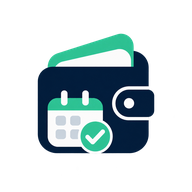
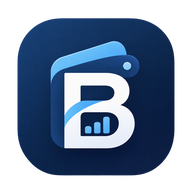
Add files via upload
Update Web Apps Budget-in V4.1

diff --git a/app.js b/app.js
@@ -11,7 +11,8 @@ function normalizeMonth(m){
  for(const rec of Object.values(m.weeks)){if(rec&&!rec.byBudget){rec.byBudget={};let j=m.budgets.find(b=>/jajan/i.test(b.name)),f=m.budgets.find(b=>/bensin/i.test(b.name));if(j&&rec.together!=null)rec.byBudget[j.id]=+rec.together||0;if(f&&rec.fuel!=null)rec.byBudget[f.id]=+rec.fuel||0;let c=m.budgets.find(b=>/kopi|air pt/i.test(b.name));if(c&&rec.work!=null){rec.byBudget[c.id]=+rec.work||0;if(+rec.work>0){c.weeklyEnabled=true;if(!c.weeklyAmount)c.weeklyAmount=50000;}}}}
  m.balances=m.balances||[{name:'Rekening',amount:0},{name:'Tunai',amount:0},{name:'Di pasangan',amount:0}];return m;
 }
-function loadState(){try{let s=JSON.parse(localStorage.getItem(STORE));if(s?.months){Object.values(s.months).forEach(normalizeMonth);return s;}let old=JSON.parse(localStorage.getItem(OLD));if(old?.months){let months={};for(let [k,v] of Object.entries(old.months))months[k]=normalizeMonth({income:v.income||7500000,budgets:(v.budgets||[]).map(b=>({...b,id:uid()})),weeks:v.weeks||{},balances:v.balances||[],submitted:!!v.submitted});return {activeMonth:old.activeMonth||'2026-11',months};}}catch(e){}return {activeMonth:'2026-11',months:{'2026-11':freshMonth()}}}
+function defaultPlanningMonthKey(){const now=new Date(),d=new Date(now.getFullYear(),now.getMonth()+1,1);return `${d.getFullYear()}-${String(d.getMonth()+1).padStart(2,'0')}`;}
+function loadState(){try{let s=JSON.parse(localStorage.getItem(STORE));if(s?.months){Object.values(s.months).forEach(normalizeMonth);if(!s.activeMonth||!s.months[s.activeMonth])s.activeMonth=Object.keys(s.months).sort().at(-1)||defaultPlanningMonthKey();return s;}let old=JSON.parse(localStorage.getItem(OLD));if(old?.months){let months={};for(let [k,v] of Object.entries(old.months))months[k]=normalizeMonth({income:v.income||7500000,budgets:(v.budgets||[]).map(b=>({...b,id:uid()})),weeks:v.weeks||{},balances:v.balances||[],submitted:!!v.submitted});return {activeMonth:old.activeMonth||Object.keys(months).sort().at(-1)||defaultPlanningMonthKey(),months};}}catch(e){}const firstMonth=defaultPlanningMonthKey();return {activeMonth:firstMonth,months:{[firstMonth]:freshMonth()}}}
 let state=loadState(),month=state.activeMonth||'2026-11',week=1;
 const $=id=>document.getElementById(id);
 function previousMonthKey(k){let [y,n]=k.split('-').map(Number),d=new Date(y,n-2,1);return `${d.getFullYear()}-${String(d.getMonth()+1).padStart(2,'0')}`;}
@@ -44,7 +45,7 @@ function trackedDisbursedActual(m){
  return m.budgets.filter(b=>b.paid&&b.weeklyEnabled).reduce((sum,b)=>sum+Object.values(m.weeks||{}).reduce((n,rec)=>n+weeklyUsed(b,rec),0),0);
 }
 function trackedRemaining(m){return trackedDisbursedActual(m)-actual(m);}
-function validMonthKey(k){return typeof k==='string'&&/^\\d{4}-(0[1-9]|1[0-2])$/.test(k);}
+function validMonthKey(k){return typeof k==='string'&&/^\d{4}-(0[1-9]|1[0-2])$/.test(k);}
 
 function monthName(k){let [y,n]=k.split('-').map(Number);return new Date(y,n-1,1).toLocaleDateString('id-ID',{month:'long',year:'numeric'});}
 function monthWeekRanges(key){
@@ -65,7 +66,7 @@ function escapeHtml(s){return String(s??'').replace(/[&<>"']/g,c=>({'&':'&amp;',
 function iconFor(n){let s=n.toLowerCase();if(s.includes('infak'))return 'volunteer_activism';if(s.includes('hp')||s.includes('cicilan'))return 'smartphone';if(s.includes('umi')||s.includes('mifta')||s.includes('aulia')||s.includes('keluarga'))return 'family_restroom';if(s.includes('pasangan')||s.includes('jajan'))return 'favorite';if(s.includes('bensin'))return 'local_gas_station';if(s.includes('cartridge')||s.includes('liquid'))return 'water_drop';if(s.includes('kuota'))return 'wifi';if(s.includes('kopi')||s.includes('air'))return 'coffee';if(s.includes('rumah'))return 'home';return 'category';}
 function render(){
  const m=current(),alloc=totalBudget(m),out=actual(m);
- $('monthTitle').textContent=monthName(month);$('monthStatus').textContent=m.status==='submitted'?'✓ Anggaran tersimpan':'● Draft anggaran';$('monthStatus').className='month-status '+(m.status==='submitted'?'is-submitted':'is-draft');$('submitBudget').textContent=m.status==='submitted'?'✓ Sudah disubmit':'Submit anggaran';$('submitBudget').disabled=m.status==='submitted';$('freeMoney').textContent=fmt(m.income-alloc);$('income').textContent=fmt(m.income);$('allocated').textContent=fmt(alloc);$('paidTotal').textContent=fmt(paidActual(m));$('budgetTotal').textContent=fmt(alloc);$('budgetCount').textContent=m.budgets.length+' pos';
+ $('monthTitle').textContent=monthName(month);$('draftNextMonth').textContent='＋ Buat '+monthName(nextMonthKey(month)).replace(/\s+\d{4}$/,'');$('draftNextMonth').title='Salin seluruh rencana '+monthName(month)+' ke '+monthName(nextMonthKey(month));$('monthStatus').textContent=m.status==='submitted'?'✓ Anggaran tersimpan':'● Draft anggaran';$('monthStatus').className='month-status '+(m.status==='submitted'?'is-submitted':'is-draft');$('submitBudget').textContent=m.status==='submitted'?'✓ Sudah disubmit':'Submit anggaran';$('submitBudget').disabled=m.status==='submitted';$('freeMoney').textContent=fmt(m.income-alloc);$('income').textContent=fmt(m.income);$('allocated').textContent=fmt(alloc);$('paidTotal').textContent=fmt(paidActual(m));$('budgetTotal').textContent=fmt(alloc);$('budgetCount').textContent=m.budgets.length+' pos';
  $('cashNeed').textContent=fmt(m.budgets.filter(b=>b.paymentMode==='cash'&&!b.paid).reduce((a,b)=>a+(+b.amount||0),0));$('budgetState').textContent=m.submitted?'✓ Anggaran tersimpan':'Belum disubmit';
  $('budgetList').innerHTML=m.budgets.map(b=>`<div class="budget-row"><div class="budget-name"><span class="budget-icon material-symbols-rounded">${iconFor(b.name)}</span><span><strong>${escapeHtml(b.name)}</strong><small>${b.paid?'Sudah terlaksana':'Belum terlaksana'} · ${b.paymentMode==='cash'?'Cash':'Cashless'}${b.weeklyEnabled?' · Mingguan '+fmt(b.weeklyAmount):''}</small></span></div><div class="budget-amount"><b>${fmt(b.amount)}</b><small><input class="paid-toggle" type="checkbox" aria-label="Tandai ${escapeHtml(b.name)} sudah terlaksana" ${b.paid?'checked':''} onchange="togglePaid('${b.id}',this.checked)"> ${b.paid?'Selesai':'Tandai selesai'}</small></div></div>`).join('');
  renderWeeklySections(m);
@@ -152,17 +153,21 @@ $('prevMonth').onclick=()=>shiftMonth(-1);$('nextMonth').onclick=()=>shiftMonth(
 function shiftMonth(n){let [y,m]=month.split('-').map(Number),d=new Date(y,m-1+n,1);month=`${d.getFullYear()}-${String(d.getMonth()+1).padStart(2,'0')}`;week=1;persist();}
 
 function createNextMonthDraft(){
- const source=current(),targetKey=nextMonthKey(month);
- if(state.months[targetKey]){alert('Draft '+monthName(targetKey)+' sudah tersedia. Buka melalui Riwayat agar data yang ada tidak tertimpa.');return;}
+ const sourceKey=month,source=current(),targetKey=nextMonthKey(sourceKey);
+ if(state.months[targetKey]){alert('Anggaran '+monthName(targetKey)+' sudah tersedia. Buka melalui Riwayat agar data yang sudah ada tidak tertimpa.');return;}
+ // Copy the planning inputs (including monthly income, category names/amounts,
+ // payment modes and monitoring preferences) into the following use-month.
  const copied=clone(source);
  copied.budgets=copied.budgets.map(b=>({...b,id:uid(),paid:false}));
- copied.weeks={};copied.balances=(source.balances||[]).map(b=>({...b,amount:0}));
- copied.submitted=false;copied.status='draft';copied.budgetPeriod=targetKey;
+ copied.weeks={};
+ copied.balances=(source.balances||[]).map(b=>({...b,amount:0}));
+ copied.submitted=false;copied.status='draft';copied.budgetPeriod=targetKey;copied.copiedFromMonth=sourceKey;
  delete copied.submittedAt;
  const count=monthWeekRanges(targetKey).length;
  copied.budgets.forEach(b=>{if(b.weeklyEnabled)b.weeklyAmount=Math.round((Number(b.amount)||0)/count);});
- copied.weekCount=count;state.months[targetKey]=copied;month=targetKey;week=1;persist();
- alert('Draft '+monthName(targetKey)+' berhasil dibuat. Kategori dan nominal disalin; transaksi, status pembayaran, dan saldo aktual direset.');
+ copied.weekCount=count;
+ state.months[targetKey]=copied;month=targetKey;week=1;persist();
+ alert('Anggaran '+monthName(targetKey)+' berhasil disiapkan dari '+monthName(sourceKey)+'. Pemasukan, nama pos, nominal, metode pembayaran, dan pengaturan monitoring disalin. Checklist, catatan mingguan, dan saldo aktual direset.');
 }
 $('newMonth').onclick=()=>{let v=prompt('Bulan baru (format YYYY-MM), contoh 2026-12');if(!v||!/^\d{4}-\d{2}$/.test(v))return;if(state.months[v]){alert('Bulan sudah ada. Buka melalui Riwayat.');return;}let prev=clone(current());prev.weeks={};prev.budgets.forEach(b=>{b.id=uid();b.paid=false;});prev.submitted=false;prev.status='draft';delete prev.submittedAt;prev.balances=[{name:'Rekening',amount:0},{name:'Tunai',amount:0},{name:'Di pasangan',amount:0}];state.months[v]=prev;month=v;week=1;persist();};
 $('draftNextMonth')?.addEventListener('click',createNextMonthDraft);

diff --git a/index.html b/index.html
@@ -3,7 +3,7 @@
 <head>
 <meta charset="utf-8">
 <meta name="viewport" content="width=device-width, initial-scale=1, viewport-fit=cover">
-<meta name="theme-color" content="#101f3d">
+<meta name="theme-color" content="#0b1e3b">
 <meta name="apple-mobile-web-app-status-bar-style" content="black-translucent">
 <meta name="apple-mobile-web-app-capable" content="yes">
 <meta name="apple-mobile-web-app-status-bar-style" content="black-translucent">
@@ -12,7 +12,7 @@
 <meta name="apple-mobile-web-app-title" content="Budget-in">
 <link rel="manifest" href="manifest.webmanifest">
 <link rel="apple-touch-icon" href="icon-192.png">
-<title>Budget-in V4.0 — Personal Finance</title>
+<title>Budget-in V4.1 — Personal Finance</title>
 <link rel="stylesheet" href="https://fonts.googleapis.com/css2?family=DM+Sans:wght@400;500;600;700;800&family=Manrope:wght@400;500;600;700;800&family=Material+Symbols+Rounded:opsz,wght,FILL,GRAD@20..48,400,0,0&display=swap">
 <link rel="stylesheet" href="styles.css">
 </head>
@@ -85,7 +85,7 @@
   </section>
 
   <section class="section-block" id="budgetSection">
-    <div class="section-heading"><div><span class="eyebrow">PLAN YOUR MONTH</span><h2>Anggaran bulanan</h2><p>Atur nominal, ceklis terlaksana, dan pilih Cash atau Cashless.</p></div><div class="heading-actions"><button class="small-action" id="editBudget">Edit anggaran <span>↗</span></button><button class="small-action draft-next-btn" id="draftNextMonth" type="button">＋ Draft bulan berikutnya</button><button class="primary-btn submit-budget-btn" id="submitBudget">Submit anggaran</button></div></div>
+    <div class="section-heading"><div><span class="eyebrow">PLAN YOUR MONTH</span><h2>Anggaran bulanan</h2><p>Rancang anggaran untuk bulan tujuan sebelum bulan dimulai. Salin rencana bulan sebelumnya agar lebih cepat.</p></div><div class="heading-actions"><button class="small-action" id="editBudget">Edit anggaran <span>↗</span></button><button class="small-action draft-next-btn" id="draftNextMonth" type="button">＋ Buat bulan berikutnya</button><button class="primary-btn submit-budget-btn" id="submitBudget">Submit anggaran</button></div></div>
     <div class="surface budget-surface"><div id="budgetList"></div><div class="budget-footer"><span>Total anggaran</span><b id="budgetTotal">Rp0</b></div><div class="cash-summary"><div><span>Uang tunai yang perlu disiapkan</span><b id="cashNeed">Rp0</b></div><small id="budgetState">Belum disubmit</small></div></div>
   </section>
 

diff --git a/styles.css b/styles.css
@@ -954,3 +954,10 @@ body{background:var(--bg);color:var(--ink);font-size:14px;line-height:1.55}
  .calendar-chips{grid-template-columns:repeat(2,minmax(0,1fr))}
  .weekly-calendar{padding:13px}
 }
+
+/* Budget-in V4.1 — blue brand accent */
+:root{--blue:#3b82f6;--chart-budget:#315b91}
+:root[data-theme="dark"]{--blue:#8dbbff;--chart-budget:#9db9e8}
+.draft-next-btn{background:#eaf2ff!important;color:#174b91!important;border:1px solid #d5e5ff!important}
+:root[data-theme="dark"] .draft-next-btn{background:#1b3556!important;color:#cfe2ff!important;border-color:#31527a!important}
+.brand b{color:var(--ink)}

diff --git a/sw.js b/sw.js
@@ -1,4 +1,4 @@
-const CACHE='budget-in-v4.0-cache';
+const CACHE='budget-in-v4.1-cache';
 const ASSETS=['./','./index.html','./styles.css','./app.js','./config.js','./manifest.webmanifest','./icon-192.png','./icon-512.png'];
 self.addEventListener('install',event=>{
   event.waitUntil(caches.open(CACHE).then(cache=>cache.addAll(ASSETS)).then(()=>self.skipWaiting()));

diff --git a/README.md b/README.md
@@ -1,33 +1,26 @@
-# Budget-in V4.0
+# Budget-in V4.1
 
-Budget-in is a personal-finance PWA hosted on GitHub Pages. Supabase provides authentication and per-user monthly budget storage.
+Personal-finance PWA using HTML, CSS, vanilla JavaScript, GitHub Pages, and the existing Supabase project.
+
+## Deploy
+1. Back up production data first.
+2. Keep `config.js` connected to the existing Supabase project; do not replace its URL or publishable key. Never add a service-role key.
+3. Upload the contents of this folder to the repository root.
+4. Commit and wait for GitHub Pages.
+5. Reopen the app and allow the V4.1 service worker cache to activate.
+6. Test authentication, sync, monthly history, weekly records, backup/restore, and multi-device refresh using a separate test account before production use.
+
+## Forward-month planning
+- A new installation opens on the next calendar month. Existing saved active-month selections remain unchanged.
+- The button `Buat [bulan berikutnya]` copies the selected month's income, budget category names and amounts, payment methods, and weekly-monitoring preferences into the next month.
+- The new month is a draft. Paid checkboxes, weekly actuals, and actual balance amounts reset.
+- Existing destination months are never overwritten.
+
+## Financial definitions
+- Allocated budget: planned category amounts.
+- Disbursed funds: categories marked as paid.
+- Actual spending: weekly recorded expenses only.
+- The monthly paid checkbox is not added to actual spending.
 
 ## Files
-- `index.html` — application shell
-- `styles.css` — responsive UI, themes, motion
-- `app.js` — financial logic, local-first rendering, Supabase sync
-- `config.js` — existing Supabase URL and publishable key
-- `sw.js` — service worker
-- `manifest.webmanifest` — PWA metadata
-- `schema.sql` — reference schema; do not rerun during normal deployment
-- `icon-192.png`, `icon-512.png` — app icons
-
-## V4.0 financial definitions
-- Allocated budget: planned category amounts.
-- Disbursed funds: sum of categories whose monthly checkbox is checked.
-- Actual spending: sum of weekly recorded expenses only.
-- Weekly monitoring remains selective. Historical entries remain counted when monitoring is disabled.
-
-## Deployment
-1. Download a fresh backup from the currently deployed application.
-2. Test this candidate build using a separate test account in the existing Supabase project.
-3. Confirm login, cloud sync, weekly records, monthly history, restore, and multi-device refresh.
-4. Replace repository root files with the contents of this folder.
-5. Commit and wait for GitHub Pages deployment.
-6. Reopen the PWA and verify the new service worker cache.
-7. Keep the previous V3.8 commit available for rollback.
-
-## Security
-- The frontend publishable key is intended for browser use when RLS is correctly configured.
-- Never commit a Supabase secret/service-role key.
-- Keep user-specific financial values out of public source defaults.
+`index.html`, `styles.css`, `app.js`, `config.js`, `sw.js`, `manifest.webmanifest`, `icon-192.png`, `icon-512.png`, and `schema.sql`.

diff --git a/CHANGELOG.md b/CHANGELOG.md
@@ -31,3 +31,11 @@ This is a candidate build. Test with a separate test user in the existing Supaba
 - Added `Draft bulan berikutnya` action. It copies budget categories and settings into the next month while resetting weekly records, paid flags, and actual balances.
 - Refined dark-mode palette, surface contrast, chart colors, grid lines, and calendar states.
 - Replaced application icons with a minimal wallet-calendar checkmark identity.
+
+
+## Budget-in V4.1 — Blue brand & forward-month planning
+- Replaced the previous app identity with the approved blue Budget-in monogram icon across PWA/app surfaces.
+- Updated PWA theme colors and service-worker cache namespace to V4.1.
+- New installations now open on the next calendar month, so the first plan is forward-looking. Existing saved active months are preserved.
+- The next-month action now names its target month and explicitly copies monthly income, category names and amounts, payment methods, and weekly-monitoring preferences.
+- The new target month starts as a draft; paid flags, weekly actual records, and actual balance amounts are reset. Existing target months are never overwritten.

diff --git a/QC_REPORT.md b/QC_REPORT.md
@@ -38,3 +38,11 @@ Candidate build only. Do not replace production until acceptance tests pass.
 - Draft-next-month action avoids overwriting an existing month and resets actual-use fields.
 - Dark-mode chart and surface tokens updated.
 - Browser-level UI interaction, Supabase write behavior, and multi-device acceptance tests remain pending.
+
+
+## V4.1 checks
+- Blue app icon generated from the user-approved Budget-in B monogram and resized to 192px and 512px.
+- PWA manifest and service-worker cache namespace updated.
+- New-install default planning month is computed dynamically as the next calendar month; saved active months are preserved.
+- Next-month draft copies income and all budget setup fields, resets actual-use fields, and refuses to overwrite an existing destination.
+- JavaScript syntax and package contents require final automated checks before deployment. Live Supabase acceptance testing remains required.

diff --git a/PROJECT_CONTEXT.md b/PROJECT_CONTEXT.md
@@ -41,3 +41,11 @@
 - Calendar monitoring periods run Monday through Sunday; the first and last periods may be partial.
 - Weekly recommended allowance is monthly category amount divided by the number of calendar periods, rounded to whole rupiah.
 - Editing budget settings recalculates recommendations for enabled weekly categories.
+
+
+## V4.1 forward-month planning clarification
+- For a new installation, the active planning month defaults to the next calendar month. Existing saved active-month selections are preserved.
+- The next-month copy action copies the current selected month as a template into the following month.
+- Copied fields: monthly income, category names and amounts, payment methods, and weekly-monitoring settings.
+- Reset fields: paid flags, weekly actual records, submitted state, and actual balance amounts.
+- Existing destination months are not overwritten.
